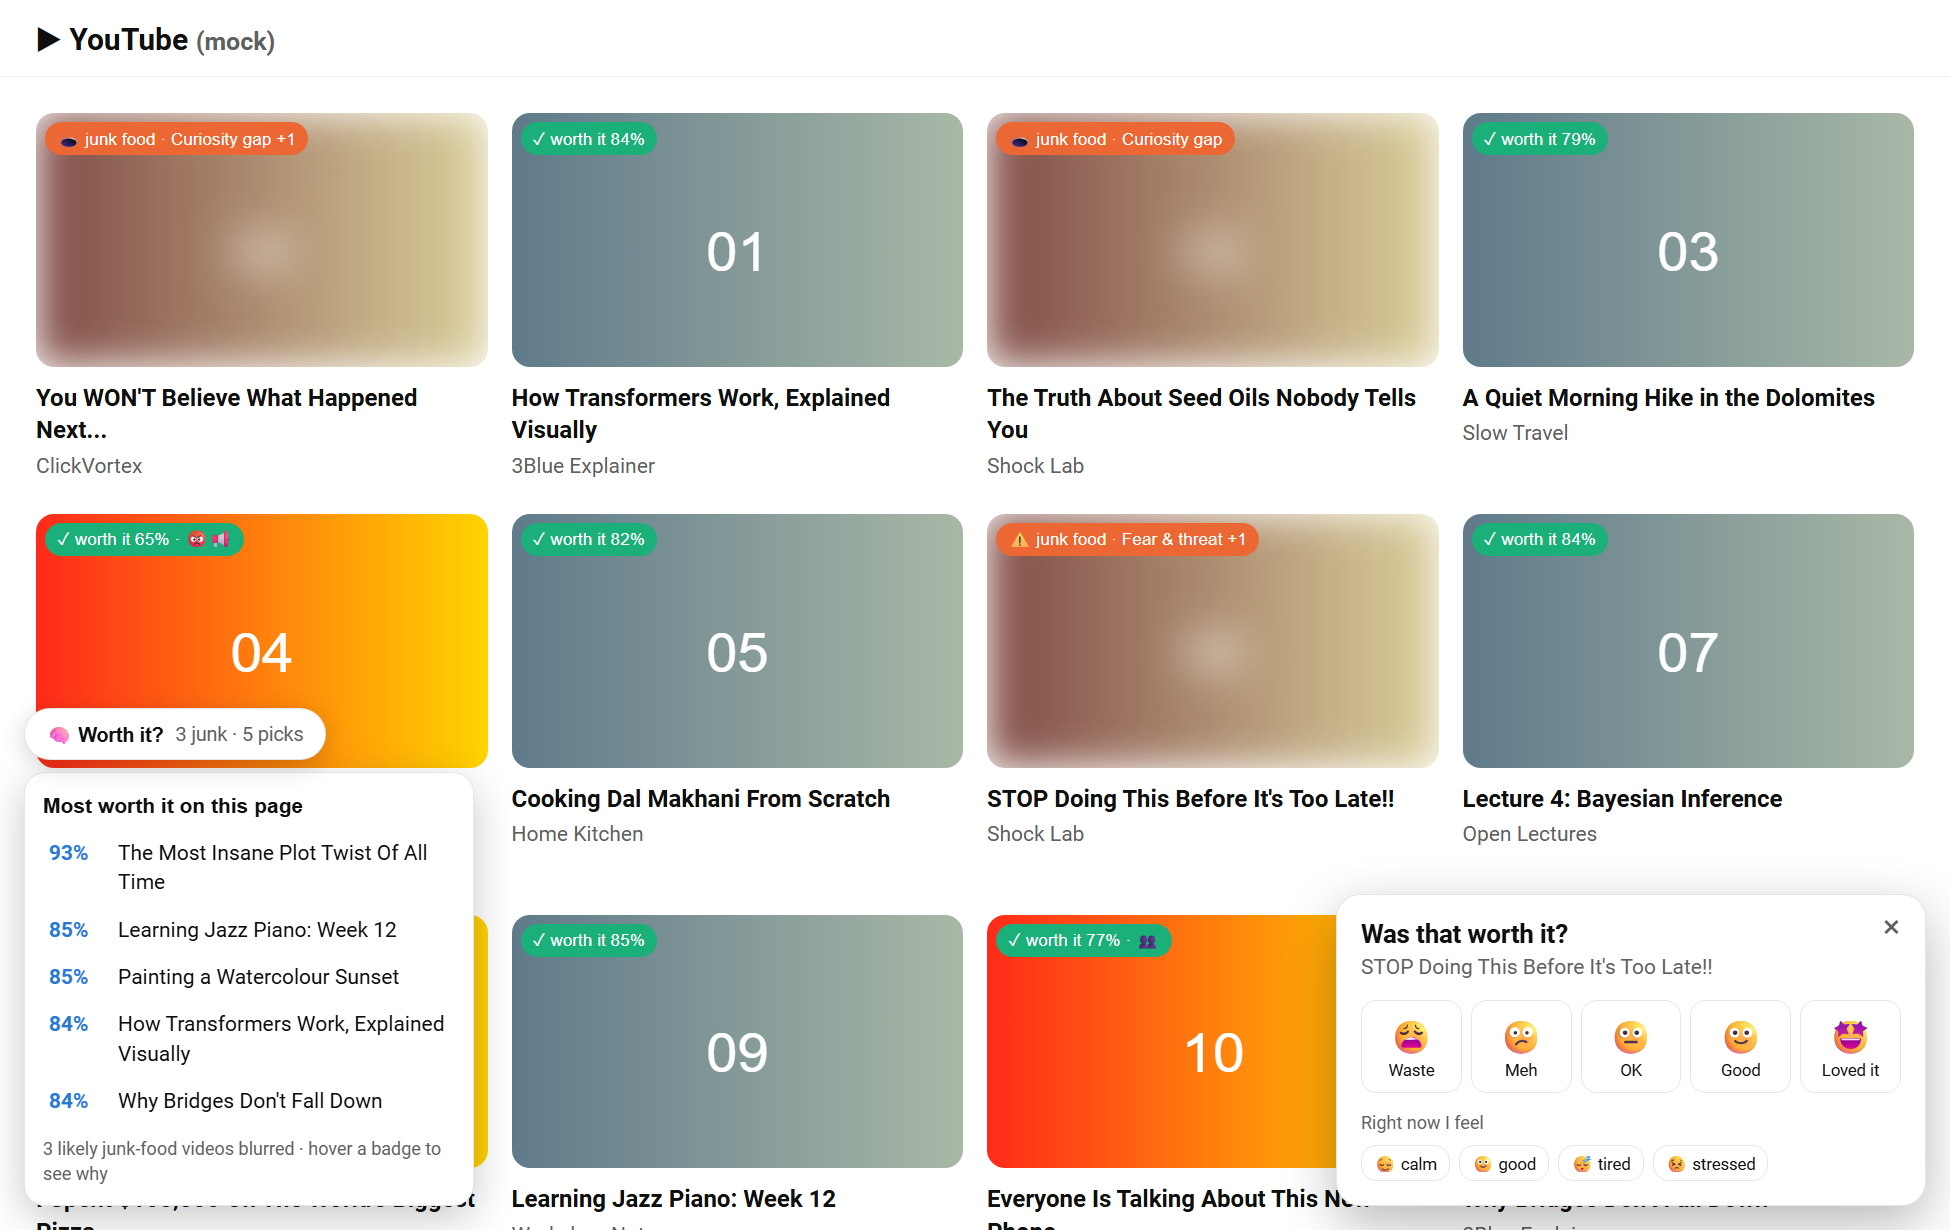
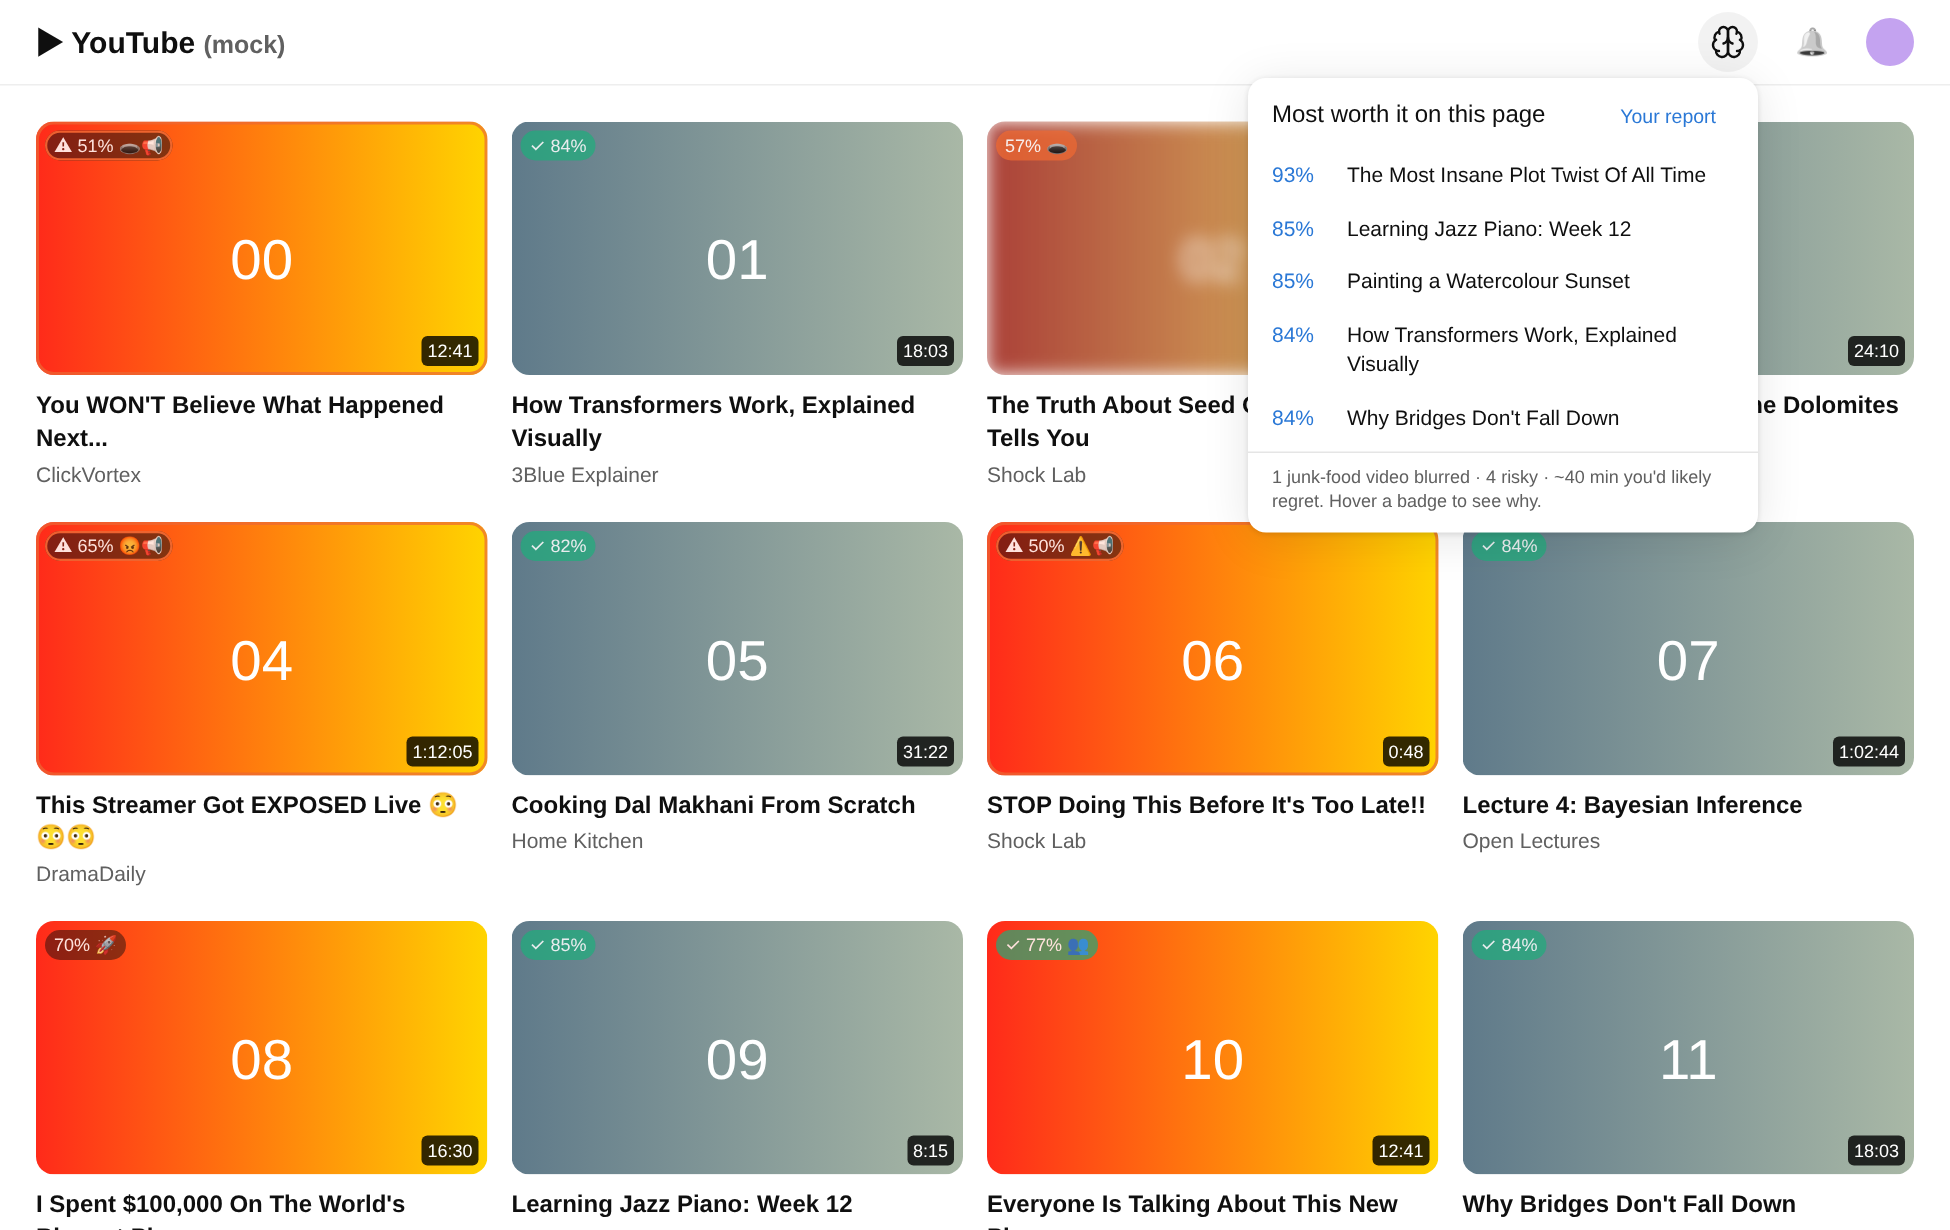
Update README for the rating bar, track-record verdicts and new screenshots
- Describe the bar under the video, the top-bar picks menu, clicking a badge
  to overrule a verdict, and the strictness setting.
- New screenshots of the feed, the rating bar and the report (mock YouTube
  page, demo data).
- Document what the unit tests and the mock YouTube page cover.
- Replace a broken link, and add the desktop-only limitation.

diff --git a/README.md b/README.md
@@ -8,7 +8,7 @@
 
 Neuroscientists Kent Berridge and Terry Robinson showed that **wanting** (the dopamine-driven pull toward something) and **liking** (actually enjoying it) run on separate brain systems. That's why you can keep clicking on things that don't make you happy.
 
-YouTube's recommender learns from what you *click*, which is wanting. Worth It? also measures what you *like* by asking one quick question after each video: **"Was that worth it?"** Then it re-ranks your feed for liking.
+YouTube's recommender learns from what you *click*, which is wanting. Worth It? also measures what you *like*, with one quick question in a slim bar under every video: **"Was that worth it?"** Then it flags the junk food on your feed and suggests what's actually worth your time.
 
 ## What it does
 
@@ -24,9 +24,11 @@ YouTube's recommender learns from what you *click*, which is wanting. Worth It? 
 | 🌙 | **Notices your vulnerable moments**: late night and deep in a session | Fatigue weakens self-control while the cue's pull stays strong |
 | 📊 | **"Your Brain on YouTube" report**: week-by-week worth-it % and regretted time, your personal triggers, worst hours, rabbit holes, moods, and every channel's verdict (which you can overrule) | |
 
+![The "Worth it?" bar under the video](docs/watch.png)
+
 ![Your Brain on YouTube report (demo data)](docs/report.png)
 
-*The report above uses the built-in demo data (a simulated viewer). Yours fills in as you watch and rate.*
+*The screenshots use the project's mock YouTube page and the built-in demo data (a simulated viewer). Yours fills in as you watch and rate.*
 
 ## Install (2 minutes)
 
@@ -36,7 +38,7 @@ YouTube's recommender learns from what you *click*, which is wanting. Worth It? 
 4. Click **Load unpacked** and pick the `worth-it` folder.
 5. Pin the 🧠 icon, then open YouTube.
 
-To use it, browse normally. Every video shows its **worth-it %**; hover the badge to see *why*. Under the video you're watching, tap a face to say whether it was worth it (it takes one second; the bar lights up when the video ends). Prefer a popup? Pick one in the toolbar popup. Open the report from the toolbar icon. To see what it looks like before you have data, click **Load demo data** at the bottom of the report.
+To use it, browse normally. Every video shows its **worth-it %**; hover the badge to see *why*, or click it to overrule the verdict for that channel. Under the video you're watching, tap a face to say whether it was worth it (it takes one second; the bar lights up when the video ends). The brain icon in YouTube's top bar lists the most worth-it videos on the page. Prefer a popup too? Pick one in the toolbar popup, where you also set **how strict** it is about junk food. Open the report from the toolbar icon. To see what it looks like before you have data, click **Load demo data** at the bottom of the report.
 
 ## Privacy
 
@@ -60,7 +62,7 @@ popup/             toolbar popup: switches, strictness slider, today's stats
   - **Left in the first 20%:** waits 3 days. If you come back to the video in that time, it's treated as "watching the rest later" and never counts against it.
   - **"⏸ Finishing later":** never counts against the video, even if you don't come back.
   - **Rewatching** a video you'd already finished (for at least a minute) teaches a strong "liked it". **Bouncing**, leaving a video of 2+ minutes within 30 seconds on a first visit, teaches a small "didn't". Neither counts toward the junk-food track record, which is only your ratings.
-  - **Watching again:** each video has one entry. Watch time adds up across visits, and if you're asked again, the prompt shows your last answer and a new one replaces it (the model only re-learns if your opinion changed).
+  - **Watching again:** each video has one entry. Watch time adds up across visits, the bar shows your last answer, and a new one replaces it (the model only re-learns if your opinion changed).
 - **Packaging vs track record:** each channel gets its own learned offset on top of the hook weights. A channel with clickbait-style titles that you consistently enjoy ends up "✓ worth it", and its hooks are shown only as small emoji. The same hooks from a channel you regret get flagged.
 - **Getting started:** both models start from priors that say hooks pull harder but pay off less, and that late nights and long sessions make it worse. These priors move the *worth it %*, but they never trigger a verdict on their own.
 - **Verdicts come from your track record:** each channel and each hook keeps a count of how you rated it. A level is only given when the evidence is confident (a Beta posterior: at least 70% sure that under half of its videos are worth it to you for ⚠ *risky*, 85% for 🍔 *junk food*, 85% sure that over half are for ✓ *worth it*). In practice: 1 bad rating is nothing, 2 make a channel risky, 3 of 3 or 4 of 5 make it junk food. Leaving a level takes clearly better evidence than entering it, so one rating doesn't flip it back and forth.
@@ -72,7 +74,7 @@ popup/             toolbar popup: switches, strictness slider, today's stats
   - **Older ratings fade:** a rating counts half as much after 90 days, a quarter after 180, so a channel that changed gets re-judged, and a verdict nobody backs up any more expires on its own.
   - **Your call wins:** click any badge to see why, and choose "isn't junk for me" or "always flag" for its channel (or change it under *Channels* in the report). Only your rating of a specific video outranks it.
   - Hover any badge to see what it's based on, e.g. "4 of your 5 ratings of DramaDaily were OK or worse."
-- **The ranking score** comes from the [KuaiRand research](../README.md) in the parent folder. That study showed, on 1.19M real impressions, that ranking this way cuts regretted clicks by about 10%.
+- **The picks ranking** (`liking − λ · max(0, wanting − liking)`) comes from an offline study on the KuaiRand dataset, which showed, on 1.19M real impressions, that ranking this way cuts regretted clicks by about 10%.
 
 ## Develop and test
 
@@ -84,14 +86,22 @@ node --test test/hooks.test.js test/model.test.js test/store.test.js
 python test/serve.py
 ```
 
-The first command runs the unit tests: hook detection, the model, the demo generator, and storage flows (return visits, "finishing later", "got what I needed"). The second starts a mock YouTube at http://localhost:8765 that runs the real extension code end to end. `/report/report.html?demo=1` shows the report with demo data.
+The first command runs the unit tests: hook detection, both models, the track record (confidence levels, fading, overrides, strictness), the demo generator, and storage flows (re-watches and re-ratings, rewatches and bounces, "finishing later", "got what I needed").
+
+The second starts a mock YouTube at http://localhost:8765 that runs the real extension code end to end. It copies the quirks of the real site that caused bugs: the previous video's title lingering after you navigate, earlier pages kept hidden in the page, the miniplayer, and a video ending without its "ended" event. Useful pages:
+
+- `/` the home feed, `/watch?v=mockvid0001` a watch page
+- `/?shot=1` demo data with the picks menu open (used for the screenshots above)
+- `/report/report.html?demo=1` the report with demo data
+- `/popup/popup.html` the toolbar popup
 
 ## Limitations
 
 - **English titles only.** Hook detection is rule-based, so it's fast, private and explainable, but it misses subtle or non-English hooks.
 - **"Loud thumbnail" is a colour heuristic** (saturation, vivid pixels, contrast). It doesn't detect faces or arrows.
-- **YouTube changes its page layout often.** The selectors cover the current and previous layouts, but they may need updating.
+- **YouTube changes its page layout often.** The selectors cover the current and previous layouts, but they may need updating. Development and testing happen on the mock YouTube page, so check new behaviour on the real site too.
 - **Shorts aren't tracked yet.**
+- **Desktop Chrome only.** Chrome on phones doesn't run extensions, and no extension can reach the YouTube app.
 - **Early on, the priors do most of the work** for the worth-it %. Expect around 30 rated videos before the report says much about *you*.
-- **It judges a channel's track record, not each video's content.** One great video from a channel you usually regret can still get flagged. Hover to unblur.
+- **It judges a channel's track record, not each video's content.** One great video from a channel you usually regret can still get flagged: hover to unblur, rate it, or tell it the channel isn't junk for you.
 - **It's self-tracking, not a clinical tool.** Ratings are your own judgement, and the patterns are correlations.
